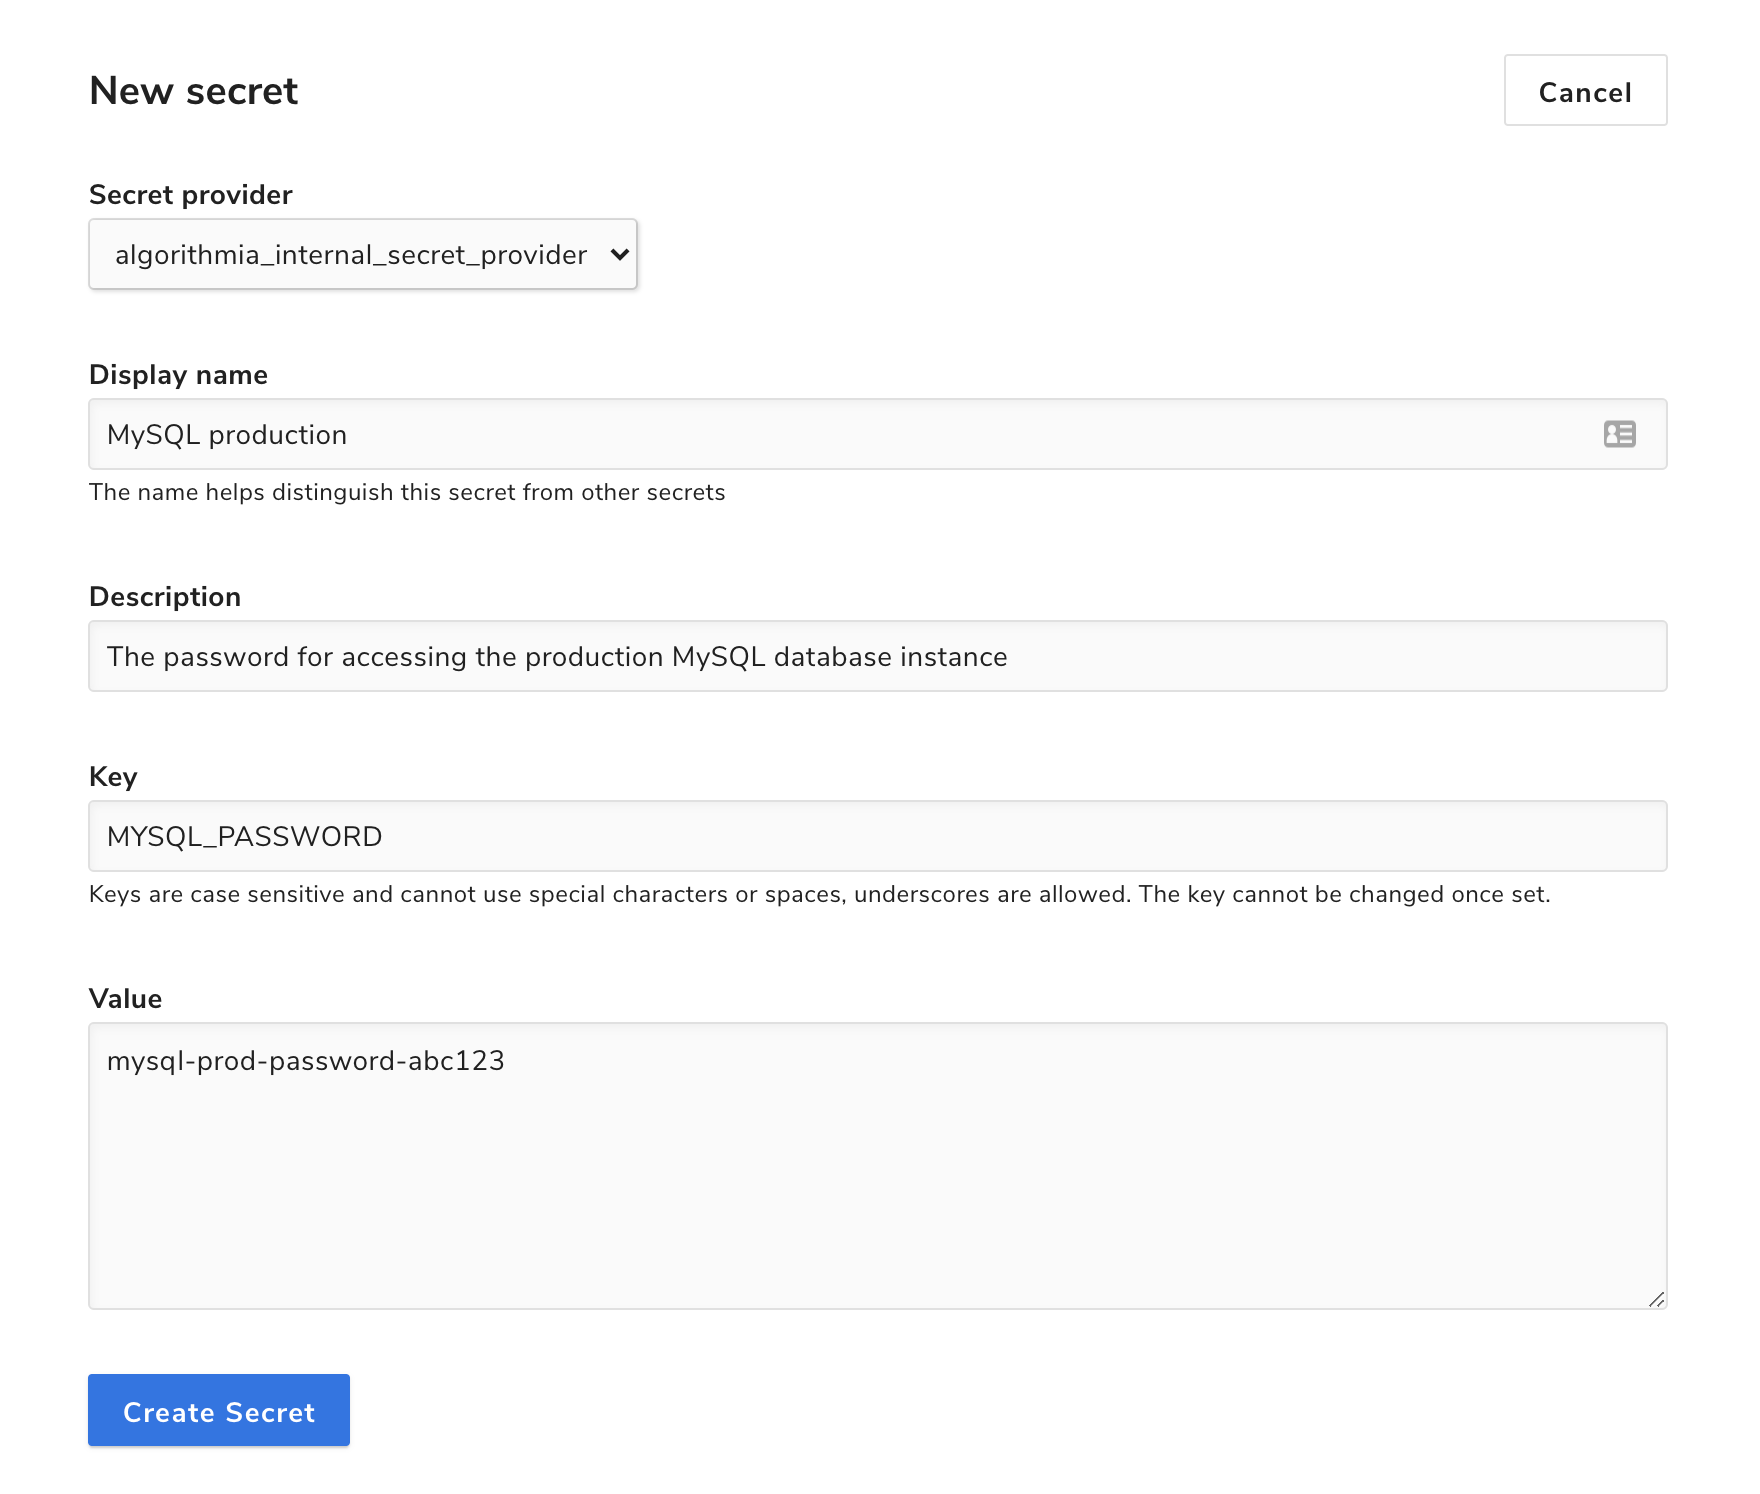
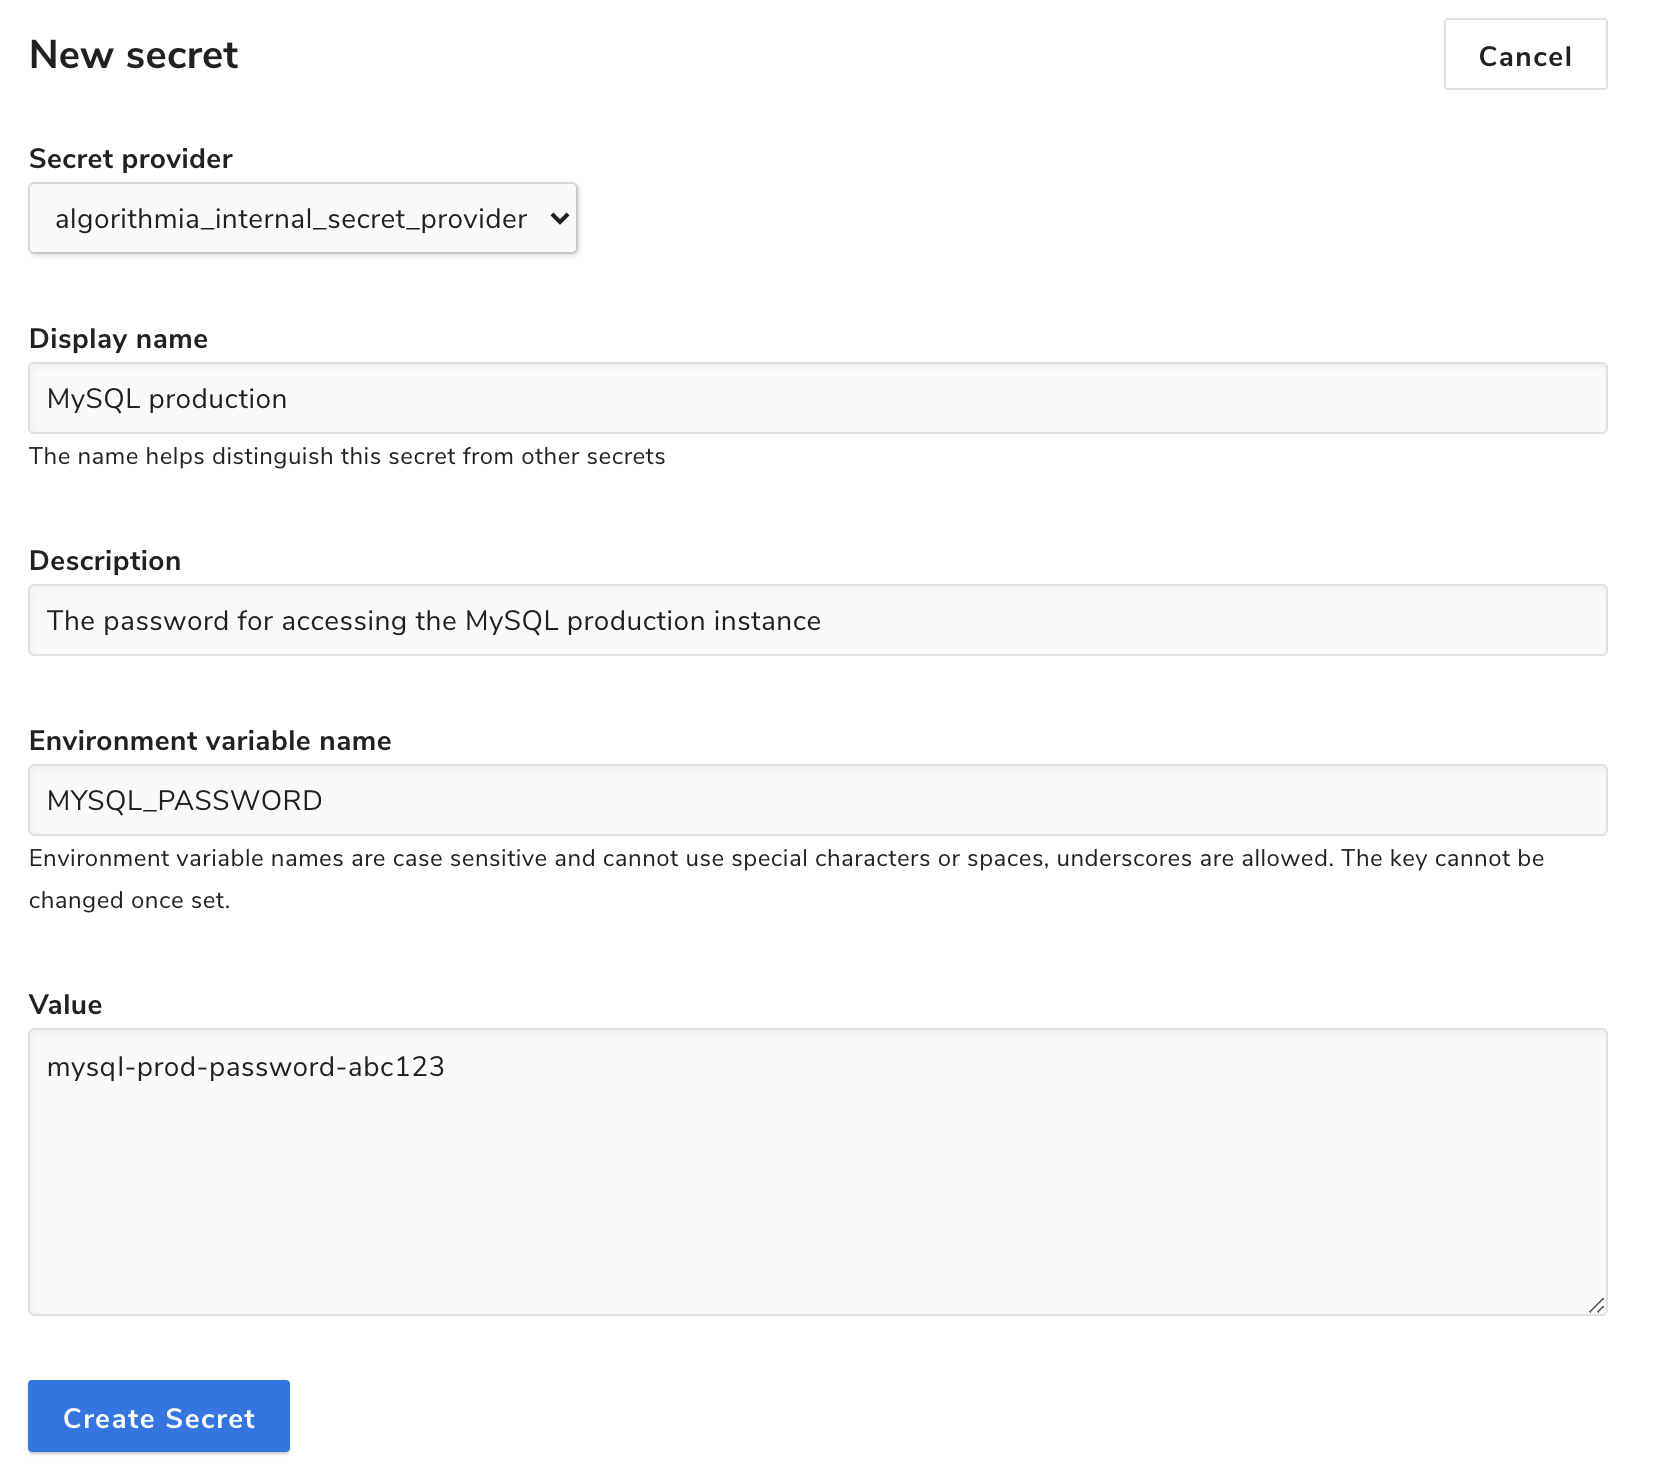
Update docs with recently-introduced web UI changes

diff --git a/_pages/platform/algorithm-secrets.md b/_pages/platform/algorithm-secrets.md
@@ -39,7 +39,7 @@ Secrets are managed on the algorithm settings page. Here you'll be able to creat
 
 ![Image of UI settings page for creating secrets](/developers/images/post_images/algorithm_secrets/settings_page.png)
 
-Start by clicking "New secret" to create an algorithm secret. Next, give your secret a name, description, key, and value. The key corresponds to the environment variable name and the value is the secret itself.
+Start by clicking "New secret" to create an algorithm secret. Next, give your secret a display name, description, environment variable name, and value.
 
 It can take up to one minute for new secrets to show up inside your algorithm. Similarly, when you update a secret, it can take one minute for that change to take effect.
 {: .notice-info}
